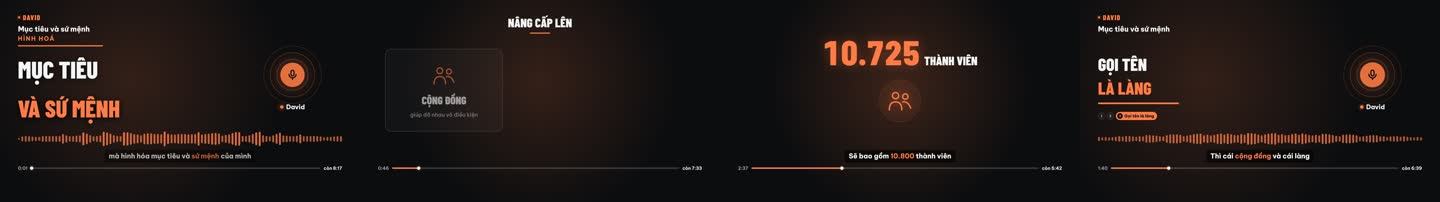
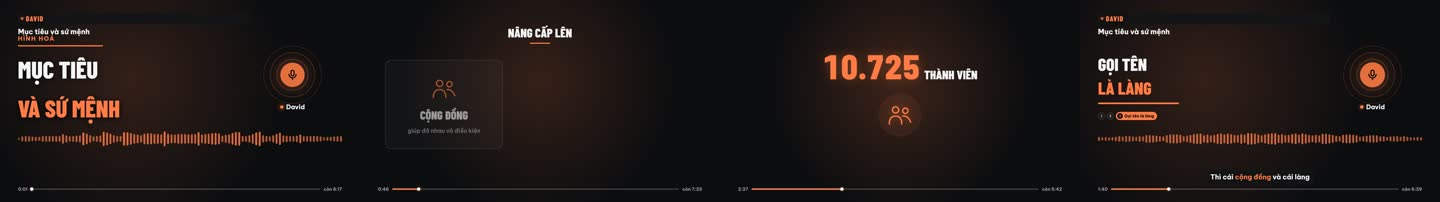
Cập nhật bộ não 2026-11-15 06:52

diff --git a/du-an/tai-ban-3.md b/du-an/tai-ban-3.md
@@ -67,7 +67,7 @@ Câu nhỏ không cần hỏi (theo đề xuất phiên con): giữ ghi nhớ `v
 ## Kiểm chung
 - [x] Đủ luật: 4 bảng (video 78 · hỏi 24 · não 35 · ghi nhớ 48), mọi dòng "sống" có nhà; luật "nội dung là của David" đã có nhà lại (chuan-muc mục 0)
 - [x] Máy đo: video 0·0·0, hỏi 0·0·0, não ghi đè 0 · trùng 0 · 2 dấu ngày là ngày dữ kiện trong david.md; "sua 31" về 0 khi gắn tag `tai-ban-3`
-- [x] Mẫu chuẩn (15/11): 5 mẫu podcast chạy được. 3 clip dọc giữ nguyên (SSIM 0,976 / 0,980 / 0,976). 2 bản podcast ngang đổi hình (`podcast-dai-trainer` 0,873, `podcast-dai-muc-tieu` 0,876) vì đúng luật "mỗi lúc một chỗ chữ" (08/11, sau `chuan.jpg` 06/11): phụ đề nhường khi cảnh / chữ chính hiện, còn lại nằm sát đáy. Các lớp khác như cũ. **Chờ David quyết có `--chot` hai bản ngang làm chuẩn mới.**
+- [x] Mẫu chuẩn (15/11): 5 mẫu podcast chạy được. 3 clip dọc giữ nguyên (SSIM 0,976 / 0,980 / 0,976). 2 bản podcast ngang đổi hình (`podcast-dai-trainer` 0,873, `podcast-dai-muc-tieu` 0,876) vì đúng luật "mỗi lúc một chỗ chữ" (08/11, sau `chuan.jpg` 06/11): phụ đề nhường khi cảnh / chữ chính hiện, còn lại nằm sát đáy. Các lớp khác như cũ. David duyệt chốt (15/11): hai bản ngang đã thành `chuan.jpg` mới.
   Cách dựng lại dự án mẫu (Mac không giữ): chép `motion/` từ Drive `sao-luu-mac/video/<tap>/{2-ban-dai,3-highlight/clip-X}` về `~/Movies/<tap>/{2-ban-day-du,3-doan-noi-bat/clip-X}/chuyen-dong` (bỏ `thumb`), đổi tên file `captions→phu-de, scenes→canh, project→du-an, placement→vi-tri, speakers→nguoi-noi, envelope→duong-bao-am, highlight→doan-noi-bat, output→dau-ra`, sửa `from './project.js'` trong `canh.js`, tạo `tu-lieu/` rỗng, `npm install` theo `package.json` của `khuon-remotion` rồi liên kết `node_modules`. Chạy xong thì xoá.
 - [ ] Việc thật `thu-tai-ban-3`: clip dọc 46 s (`~/Movies/tap-thu-tai-ban-3/3-doan-noi-bat/clip-A/video-hoan-chinh.mp4`, −13,8 LUFS), chờ David chấm
 - [x] Máy kiểm liên kết 0 / 0
